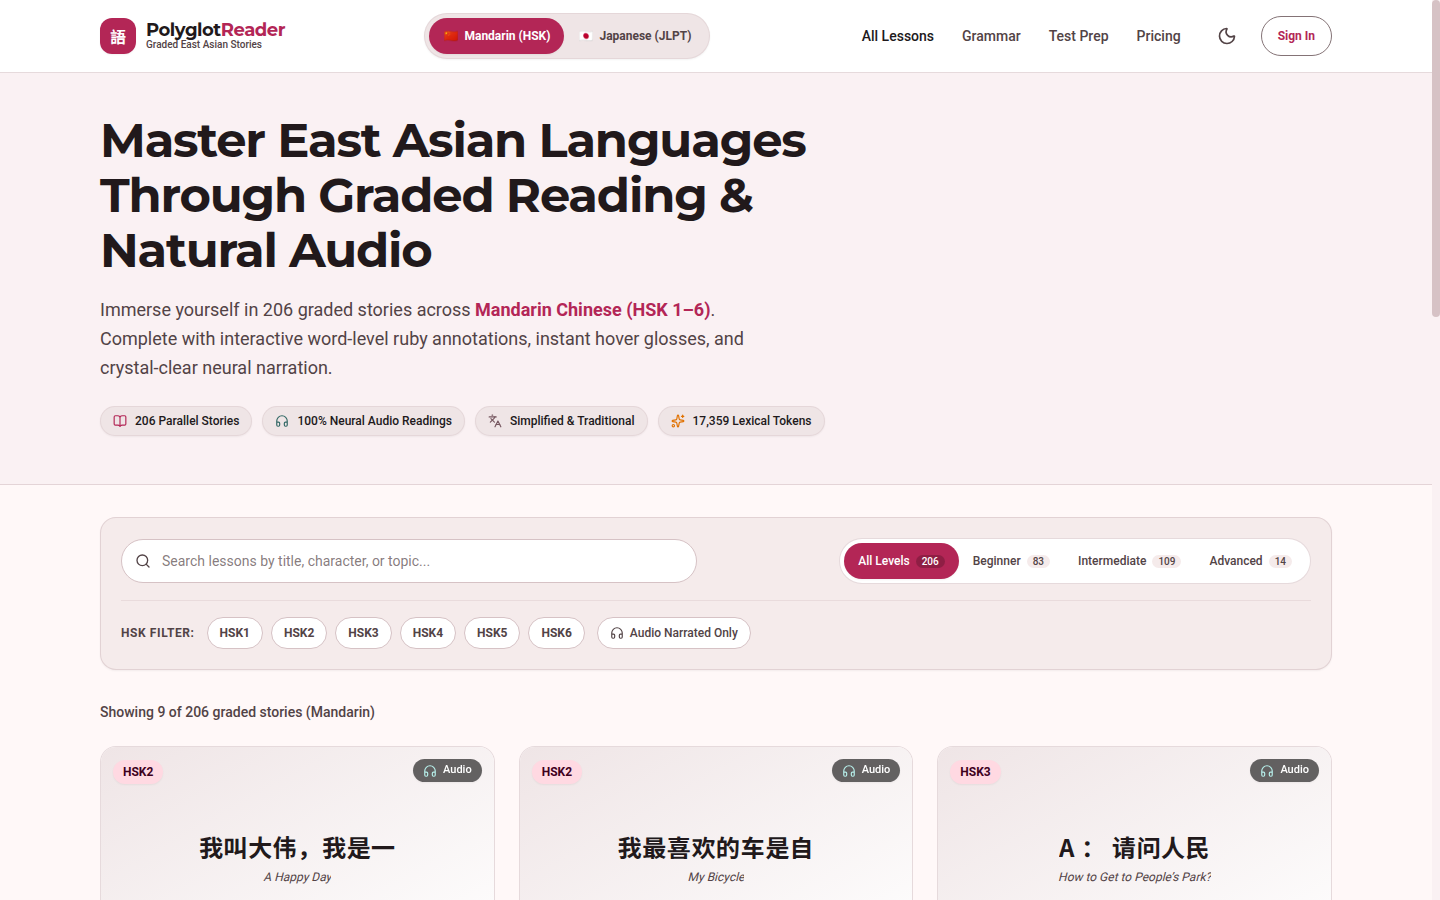
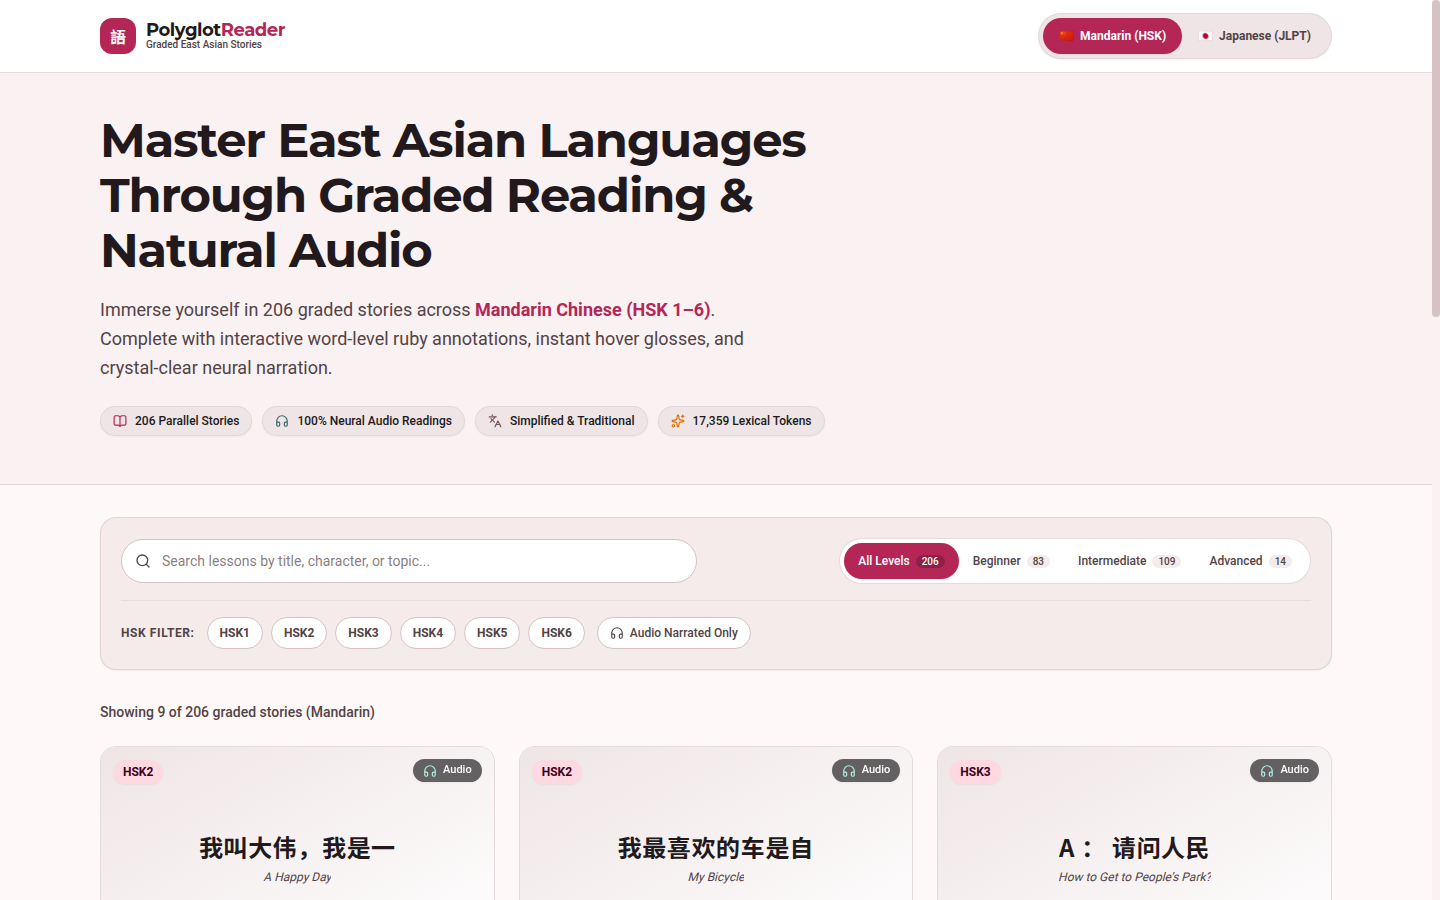
fix(ui): remove navigation links, pricing, sign in, and header clutter

Changed region(s): [[0.5938, 0.0, 0.9375, 0.0933], [0.2812, 0.0, 0.5, 0.0933]]

diff --git a/src/components/Header.tsx b/src/components/Header.tsx
@@ -1,8 +1,7 @@
 "use client";
 
-import React, { useState, useEffect } from "react";
+import React from "react";
 import Link from "next/link";
-import { ChevronDown, Menu, X, Sun, Moon, BookOpen, Volume2, Sparkles } from "lucide-react";
 
 interface HeaderProps {
   currentLanguage: "mandarin" | "japanese";
@@ -10,34 +9,6 @@ interface HeaderProps {
 }
 
 export default function Header({ currentLanguage, onLanguageChange }: HeaderProps) {
-  const [mobileOpen, setMobileOpen] = useState(false);
-  const [isDark, setIsDark] = useState(false);
-
-  useEffect(() => {
-    // Check saved theme or system preference
-    const saved = localStorage.getItem("theme");
-    const prefersDark = window.matchMedia("(prefers-color-scheme: dark)").matches;
-    if (saved === "dark" || (!saved && prefersDark)) {
-      setIsDark(true);
-      document.documentElement.classList.add("dark");
-    } else {
-      setIsDark(false);
-      document.documentElement.classList.remove("dark");
-    }
-  }, []);
-
-  const toggleTheme = () => {
-    const nextDark = !isDark;
-    setIsDark(nextDark);
-    if (nextDark) {
-      document.documentElement.classList.add("dark");
-      localStorage.setItem("theme", "dark");
-    } else {
-      document.documentElement.classList.remove("dark");
-      localStorage.setItem("theme", "light");
-    }
-  };
-
   return (
     <header className="sticky top-0 z-40 bg-[var(--md-sys-color-surface-container-lowest)] border-b border-[var(--md-sys-color-outline-variant)]/60 transition-colors duration-200">
       <div className="max-w-[1280px] mx-auto px-4 sm:px-6 h-[72px] flex items-center justify-between gap-4">
@@ -58,11 +29,11 @@ export default function Header({ currentLanguage, onLanguageChange }: HeaderProp
           </Link>
         </div>
 
-        {/* Center: MD3 Language Segmented Switcher */}
+        {/* MD3 Language Segmented Switcher */}
         <div className="flex items-center bg-[var(--md-sys-color-surface-container-high)] p-1 rounded-full border border-[var(--md-sys-color-outline-variant)]/40 shadow-xs">
           <button
             onClick={() => onLanguageChange("mandarin")}
-            className={`flex items-center gap-1.5 px-3.5 py-1.5 rounded-full text-xs font-semibold transition-all duration-200 cursor-pointer min-h-[36px] ${
+            className={`flex items-center gap-1.5 px-3 sm:px-4 py-1.5 rounded-full text-xs font-semibold transition-all duration-200 cursor-pointer min-h-[36px] ${
               currentLanguage === "mandarin"
                 ? "bg-[var(--md-sys-color-primary)] text-[var(--md-sys-color-on-primary)] shadow-xs"
                 : "text-[var(--md-sys-color-on-surface-variant)] hover:text-[var(--md-sys-color-on-surface)]"
@@ -74,7 +45,7 @@ export default function Header({ currentLanguage, onLanguageChange }: HeaderProp
           </button>
           <button
             onClick={() => onLanguageChange("japanese")}
-            className={`flex items-center gap-1.5 px-3.5 py-1.5 rounded-full text-xs font-semibold transition-all duration-200 cursor-pointer min-h-[36px] ${
+            className={`flex items-center gap-1.5 px-3 sm:px-4 py-1.5 rounded-full text-xs font-semibold transition-all duration-200 cursor-pointer min-h-[36px] ${
               currentLanguage === "japanese"
                 ? "bg-[var(--md-sys-color-primary)] text-[var(--md-sys-color-on-primary)] shadow-xs"
                 : "text-[var(--md-sys-color-on-surface-variant)] hover:text-[var(--md-sys-color-on-surface)]"
@@ -85,146 +56,7 @@ export default function Header({ currentLanguage, onLanguageChange }: HeaderProp
             <span>Japanese (JLPT)</span>
           </button>
         </div>
-
-        {/* Right Desktop Nav & Controls */}
-        <div className="hidden lg:flex items-center gap-3">
-          <nav className="flex items-center space-x-1 text-sm font-medium text-[var(--md-sys-color-on-surface-variant)]">
-            <Link
-              href="/"
-              className="px-3 py-2 rounded-full hover:bg-[var(--md-sys-color-surface-container)] text-[var(--md-sys-color-on-surface)] transition-colors"
-            >
-              All Lessons
-            </Link>
-            <Link
-              href="#grammar"
-              className="px-3 py-2 rounded-full hover:bg-[var(--md-sys-color-surface-container)] transition-colors"
-            >
-              Grammar
-            </Link>
-            <Link
-              href="#tests"
-              className="px-3 py-2 rounded-full hover:bg-[var(--md-sys-color-surface-container)] transition-colors"
-            >
-              Test Prep
-            </Link>
-            <Link
-              href="#pricing"
-              className="px-3 py-2 rounded-full hover:bg-[var(--md-sys-color-surface-container)] transition-colors"
-            >
-              Pricing
-            </Link>
-          </nav>
-
-          {/* Theme Toggle Button */}
-          <button
-            onClick={toggleTheme}
-            className="p-2.5 rounded-full text-[var(--md-sys-color-on-surface-variant)] hover:bg-[var(--md-sys-color-surface-container)] hover:text-[var(--md-sys-color-on-surface)] transition-colors cursor-pointer min-w-[44px] min-h-[44px] flex items-center justify-center"
-            aria-label={isDark ? "Switch to light theme" : "Switch to dark theme"}
-          >
-            {isDark ? <Sun className="w-5 h-5" /> : <Moon className="w-5 h-5" />}
-          </button>
-
-          {/* Login Pill Button */}
-          <Link
-            href="/login/"
-            className="px-4 py-2 rounded-full border border-[var(--md-sys-color-outline)] text-[var(--md-sys-color-primary)] hover:bg-[var(--md-sys-color-primary-container)] hover:text-[var(--md-sys-color-on-primary-container)] transition-all text-xs font-semibold min-h-[40px] flex items-center"
-          >
-            Sign In
-          </Link>
-        </div>
-
-        {/* Mobile Actions */}
-        <div className="flex items-center gap-1 lg:hidden">
-          <button
-            onClick={toggleTheme}
-            className="p-2 rounded-full text-[var(--md-sys-color-on-surface-variant)] hover:bg-[var(--md-sys-color-surface-container)] min-w-[44px] min-h-[44px] flex items-center justify-center"
-            aria-label="Toggle theme"
-          >
-            {isDark ? <Sun className="w-5 h-5" /> : <Moon className="w-5 h-5" />}
-          </button>
-          <button
-            onClick={() => setMobileOpen(!mobileOpen)}
-            className="p-2 rounded-full text-[var(--md-sys-color-on-surface)] hover:bg-[var(--md-sys-color-surface-container)] min-w-[44px] min-h-[44px] flex items-center justify-center"
-            aria-label="Toggle menu"
-          >
-            {mobileOpen ? <X className="w-6 h-6" /> : <Menu className="w-6 h-6" />}
-          </button>
-        </div>
       </div>
-
-      {/* Mobile Drawer */}
-      {mobileOpen && (
-        <div className="lg:hidden bg-[var(--md-sys-color-surface-container-lowest)] border-t border-[var(--md-sys-color-outline-variant)] px-4 py-4 space-y-3 text-sm shadow-lg">
-          <div className="flex flex-col gap-1 pb-3 border-b border-[var(--md-sys-color-outline-variant)]/60">
-            <span className="text-xs font-semibold uppercase tracking-wider text-[var(--md-sys-color-on-surface-variant)]">
-              Language Track
-            </span>
-            <div className="grid grid-cols-2 gap-2 mt-1">
-              <button
-                onClick={() => {
-                  onLanguageChange("mandarin");
-                  setMobileOpen(false);
-                }}
-                className={`py-2 px-3 rounded-lg text-xs font-semibold text-center border transition-all ${
-                  currentLanguage === "mandarin"
-                    ? "bg-[var(--md-sys-color-primary-container)] text-[var(--md-sys-color-on-primary-container)] border-[var(--md-sys-color-primary)]"
-                    : "border-[var(--md-sys-color-outline-variant)] text-[var(--md-sys-color-on-surface)]"
-                }`}
-              >
-                🇨🇳 Mandarin (HSK)
-              </button>
-              <button
-                onClick={() => {
-                  onLanguageChange("japanese");
-                  setMobileOpen(false);
-                }}
-                className={`py-2 px-3 rounded-lg text-xs font-semibold text-center border transition-all ${
-                  currentLanguage === "japanese"
-                    ? "bg-[var(--md-sys-color-primary-container)] text-[var(--md-sys-color-on-primary-container)] border-[var(--md-sys-color-primary)]"
-                    : "border-[var(--md-sys-color-outline-variant)] text-[var(--md-sys-color-on-surface)]"
-                }`}
-              >
-                🇯🇵 Japanese (JLPT)
-              </button>
-            </div>
-          </div>
-          <Link
-            href="/"
-            onClick={() => setMobileOpen(false)}
-            className="block py-2 text-[var(--md-sys-color-on-surface)] font-medium"
-          >
-            All Lessons
-          </Link>
-          <Link
-            href="#grammar"
-            onClick={() => setMobileOpen(false)}
-            className="block py-2 text-[var(--md-sys-color-on-surface-variant)]"
-          >
-            Grammar Points
-          </Link>
-          <Link
-            href="#tests"
-            onClick={() => setMobileOpen(false)}
-            className="block py-2 text-[var(--md-sys-color-on-surface-variant)]"
-          >
-            Test Prep
-          </Link>
-          <Link
-            href="#pricing"
-            onClick={() => setMobileOpen(false)}
-            className="block py-2 text-[var(--md-sys-color-on-surface-variant)]"
-          >
-            Pricing
-          </Link>
-          <Link
-            href="/login/"
-            onClick={() => setMobileOpen(false)}
-            className="block text-center py-2.5 rounded-full border border-[var(--md-sys-color-primary)] text-[var(--md-sys-color-primary)] font-semibold text-xs"
-          >
-            Sign In
-          </Link>
-        </div>
-      )}
     </header>
   );
 }
